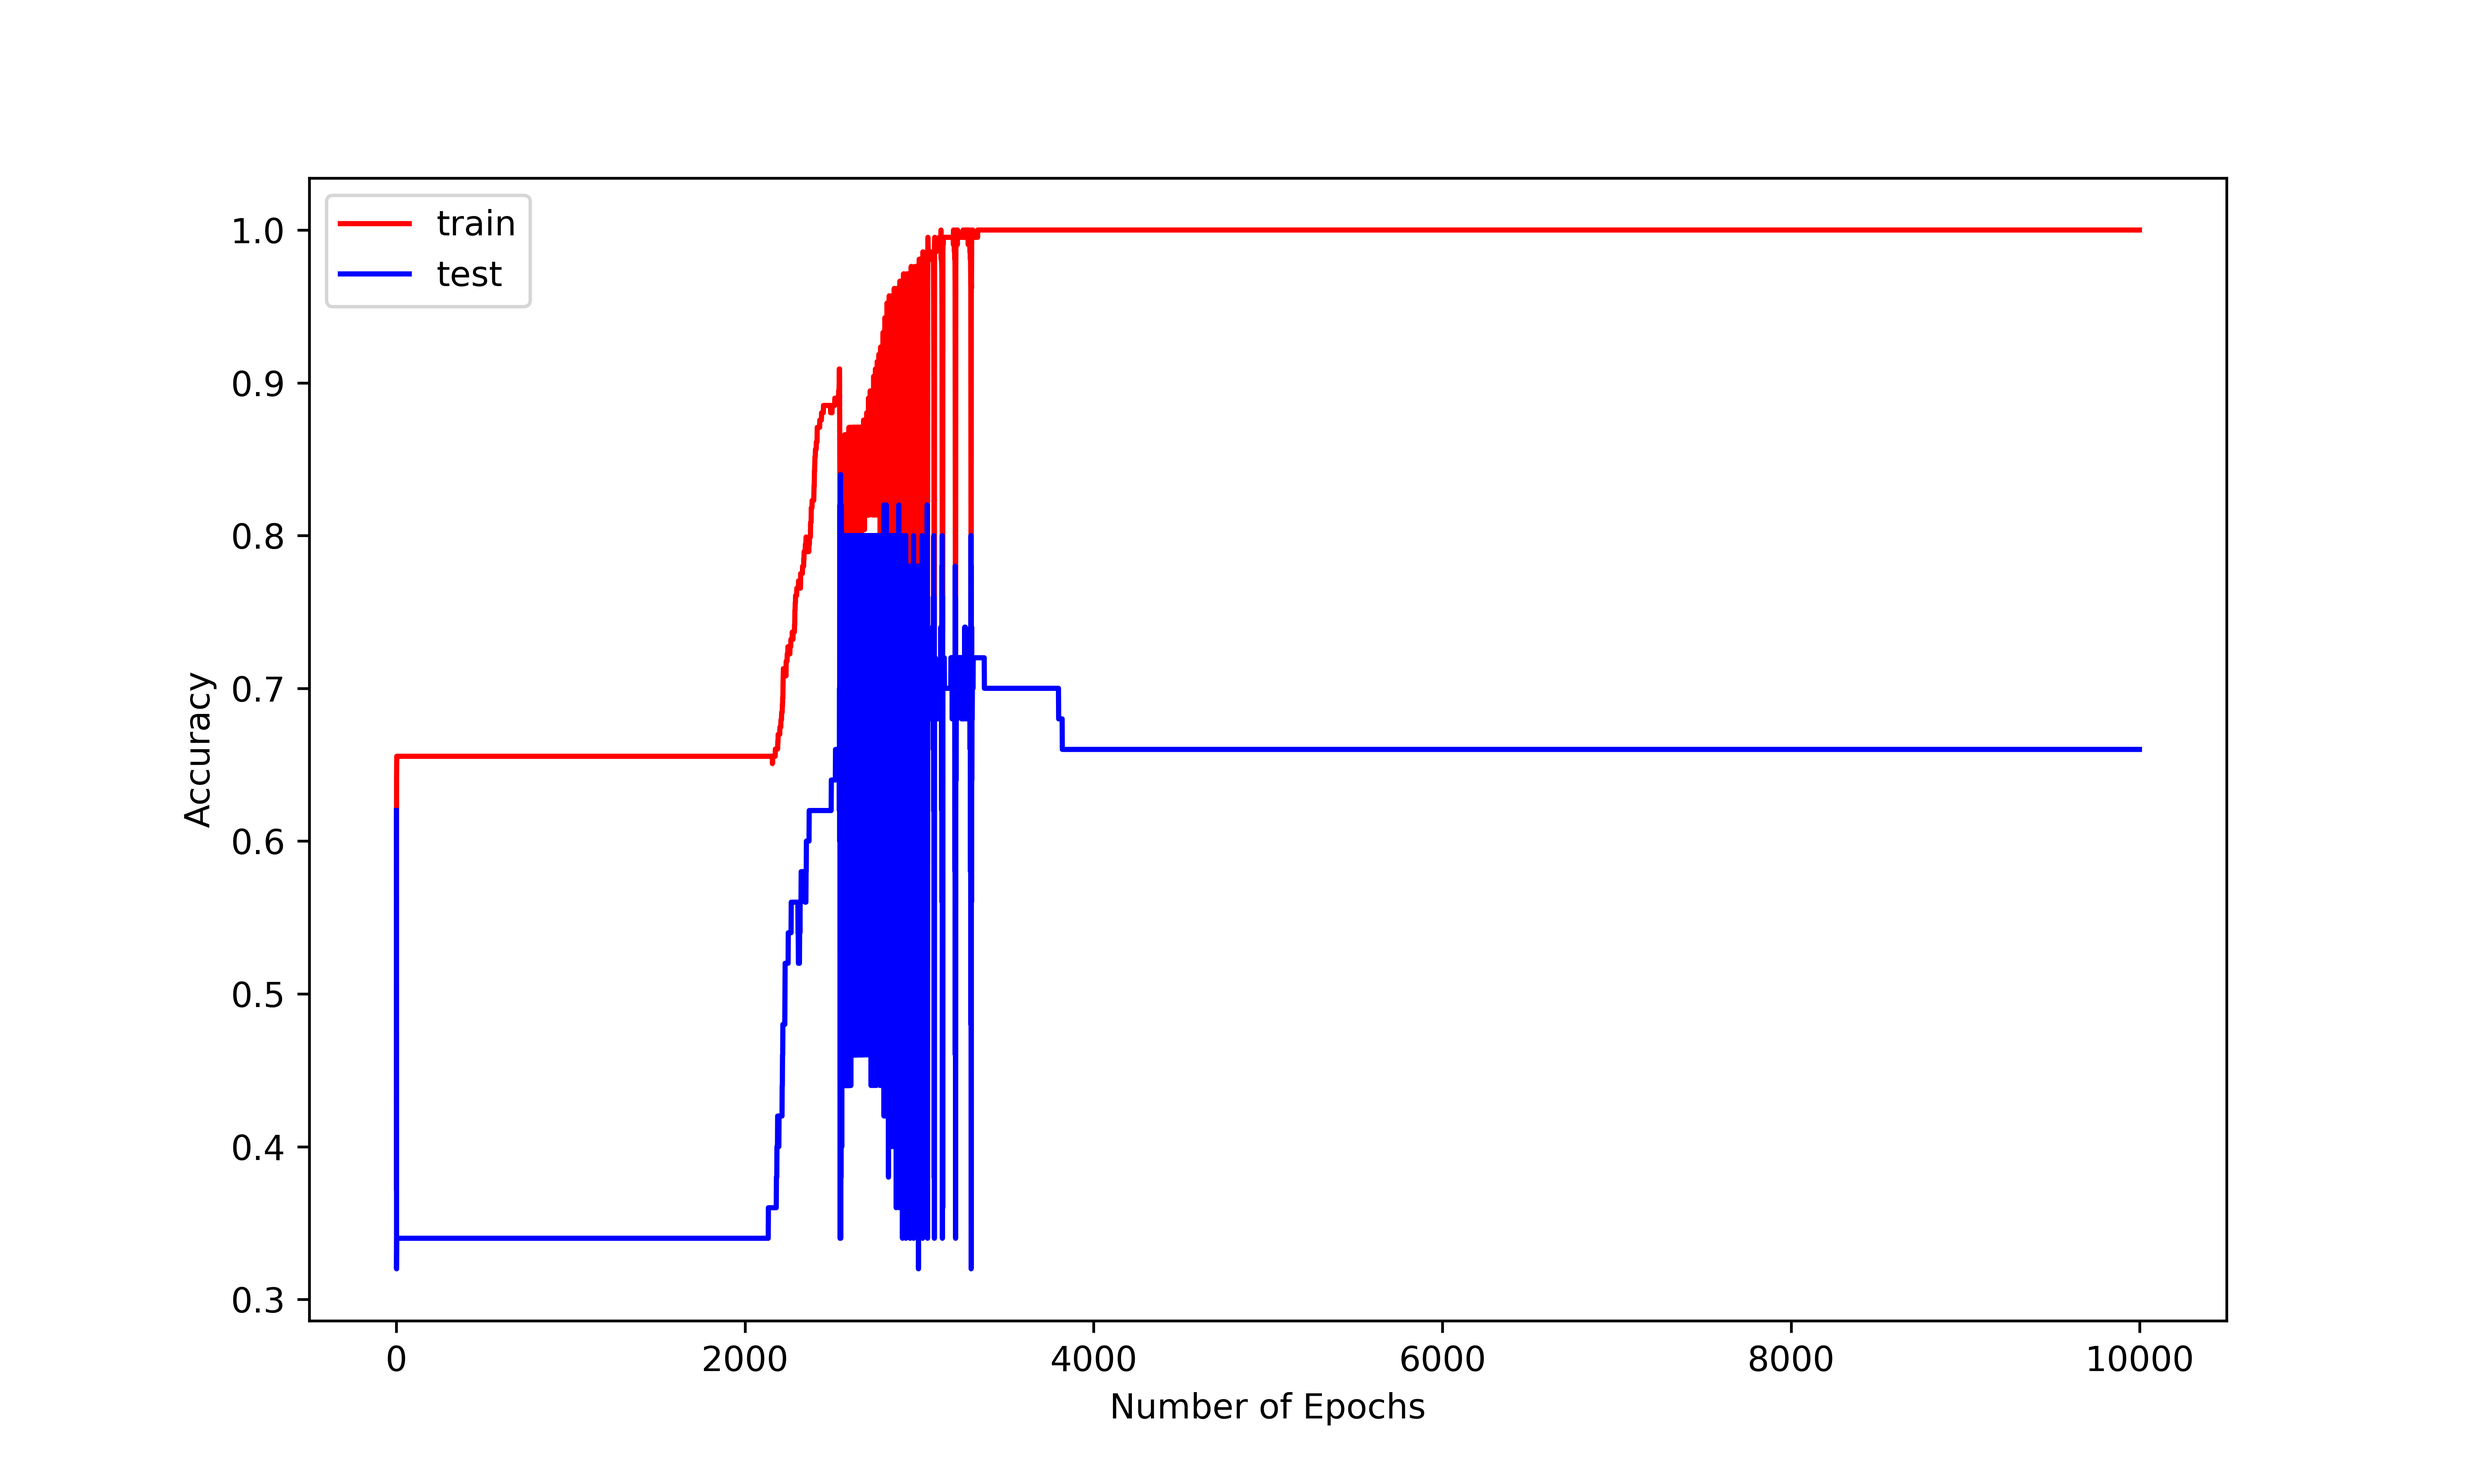
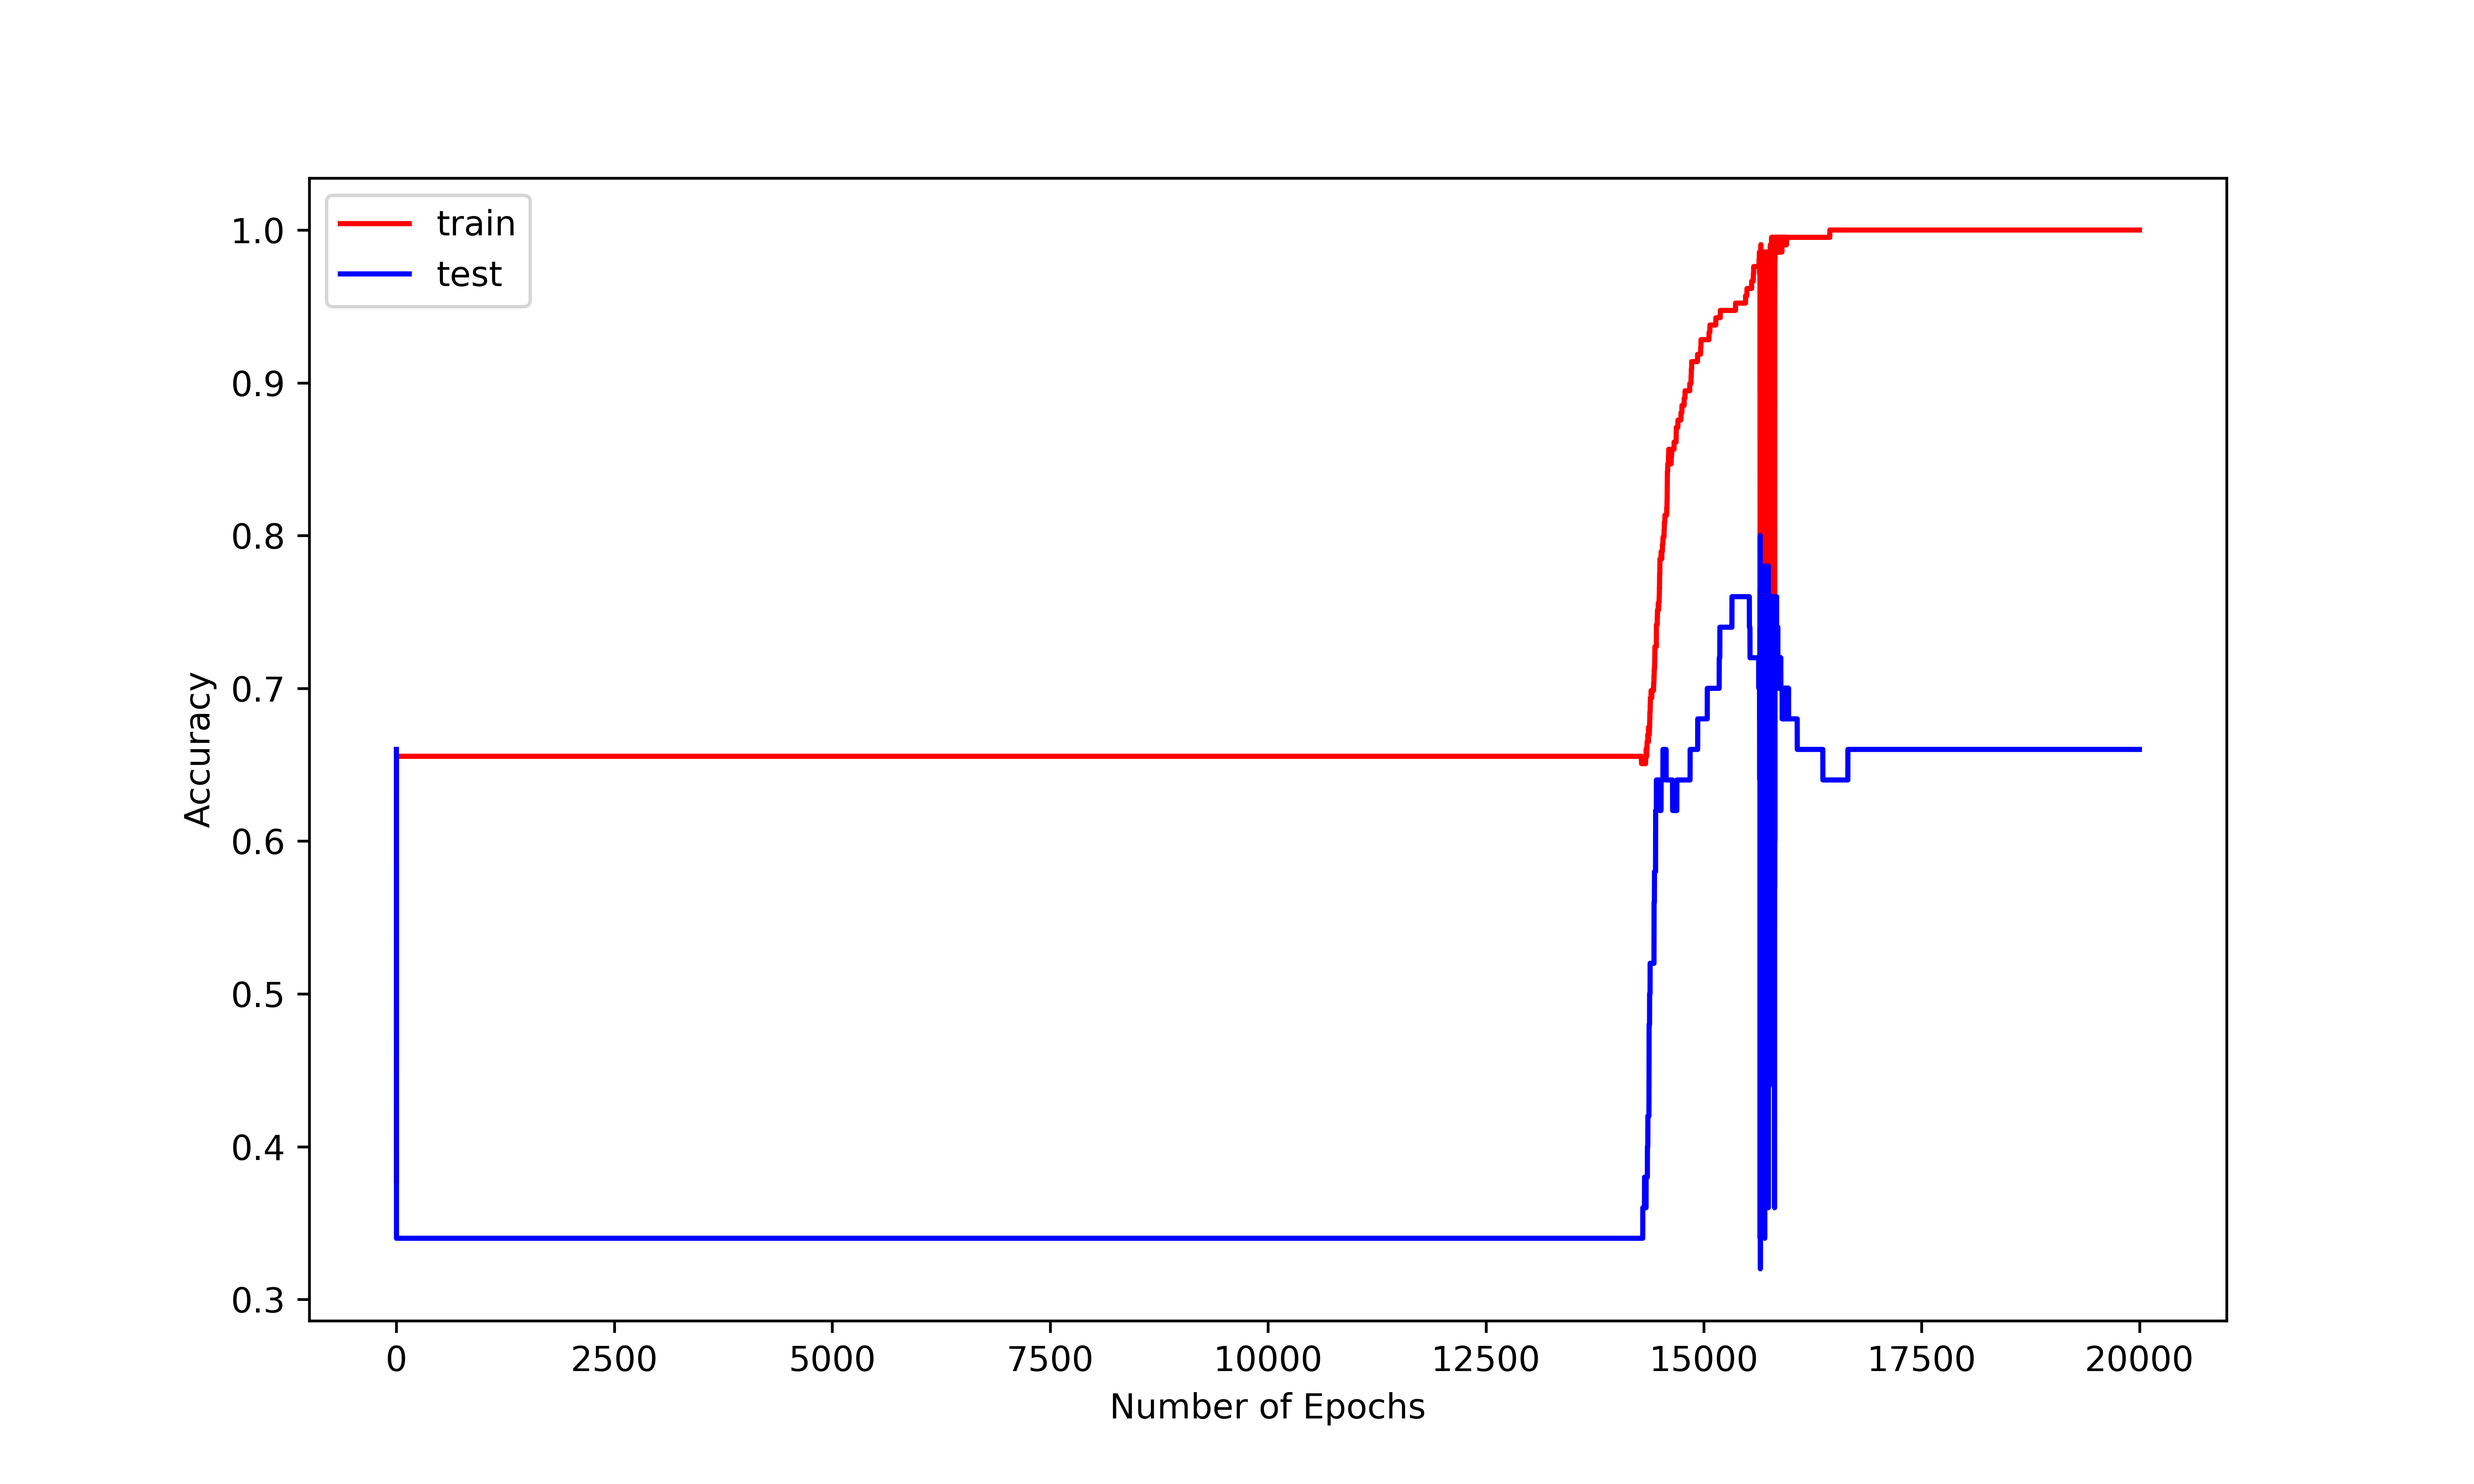
some changes.

diff --git a/L_hidden_layers_numpy/main.py b/L_hidden_layers_numpy/main.py
@@ -176,6 +176,6 @@ class NeuralNetworks:
 
 if __name__ == "__main__":
 
-    neural_network = NeuralNetworks("train_catvnoncat.h5", "test_catvnoncat.h5", [32, 16], 0.01, 10000)
+    neural_network = NeuralNetworks("train_catvnoncat.h5", "test_catvnoncat.h5", [4, 3], 0.005, 20000)
 
     a, y, n, m, w, b, z, costs, accuracies, da, dz, dw, db = neural_network.solve()
